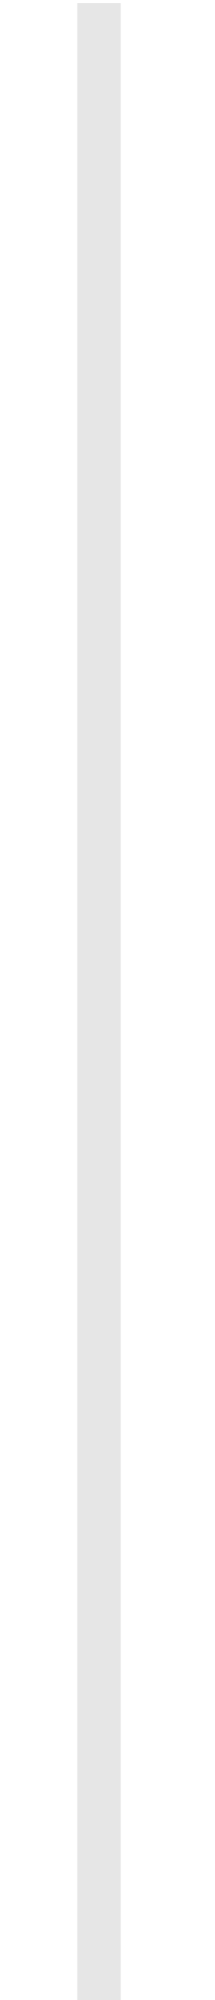
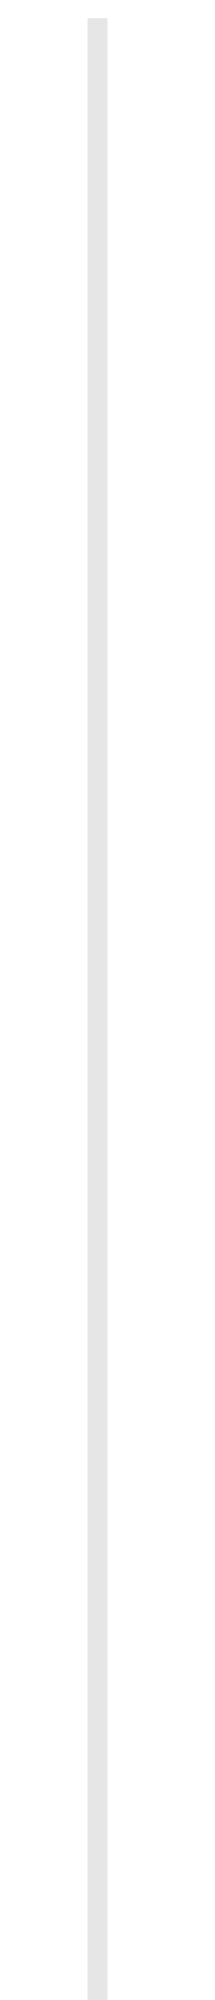
re-added lost changes for search field and improved look of divider

Changed region(s): [[0.3628, 0.0, 0.5581, 1.0]]

diff --git a/extension.css b/extension.css
@@ -79,3 +79,12 @@
     border-radius: 30px;
     background-color: #dadada;
 }
+
+.searchField {
+    background-color: transparent;
+    border: 0px solid;
+}
+
+.searchField textarea:focus, input:focus{
+    outline: none;
+}
